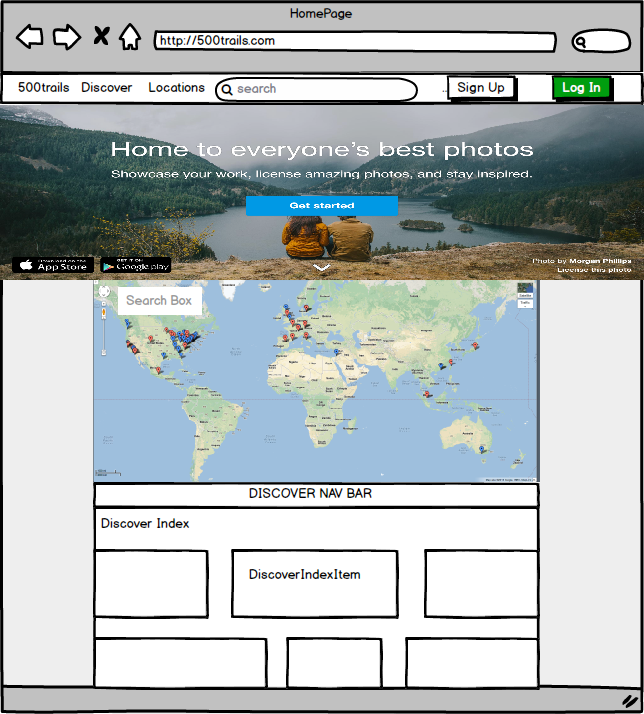
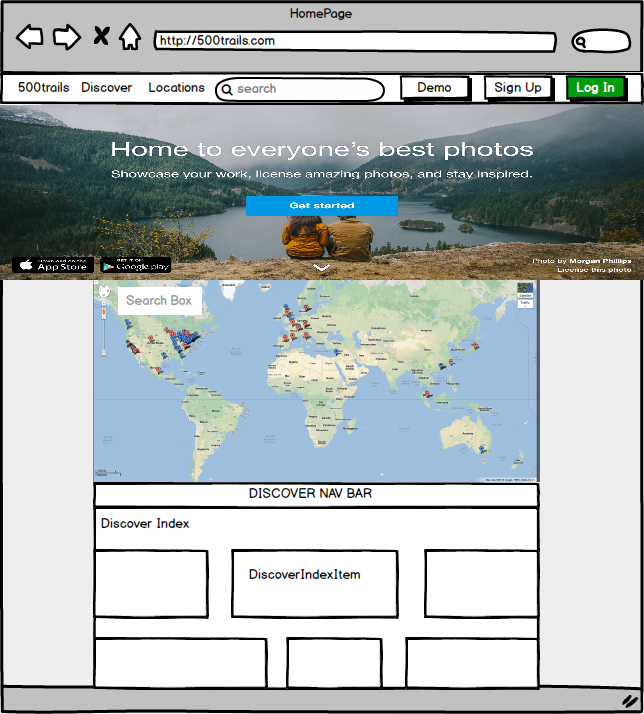
component-hierarchy.md

Changed region(s): [[0.559, 0.0924, 0.9938, 0.1541]]

diff --git a/docs/component-hierarchy.md b/docs/component-hierarchy.md
@@ -1,0 +1,55 @@
+## Component Hierarchy
+
+**Auth Form Container**
+  - Header Container
+  - AuthForm
+
+**Home Container**
+  - Header Container
+  - Discover Container
+    - Discover Nav Bar
+    - Discover Google Maps
+    - Discover Index
+
+**Header Container**
+  - Search
+  - Log In Button
+  - Sign Up Button
+  - Demo Button
+
+**Logged In Header Container**
+  - Search
+  - User Name
+  - New Trip Button
+
+**User Profile Container**
+  - Logged In Header Container
+  - Profile Stats Container
+  - Profile Nav Bar
+  - Trips Index
+
+**Profile Stats Container**
+ - User Name
+ - Avatar Photo
+
+**Saved Trips Container**
+  - Logged In Header Container
+  - Profile Stats Container
+  - Profile Nav Bar
+  - Saved Trips Index
+
+**User Map Container**
+  - Logged In Header Container
+  - Profile Stats Container
+  - Profile Nav Bar
+  - User Profile Google Maps
+
+**New Trip Form Container**
+  - Photo Upload Container
+    -Photo Upload Button
+    -Drag and Drop Photo Area(bonus)
+  - New Trip Form
+    - Publish Trip Button
+    - Title Text Box
+    - Location Text Box
+    - Description Text Area

diff --git a/README.md b/README.md
@@ -17,7 +17,7 @@ sufficient CSS styling:
 - [ ] Hosting on Heroku
 - [ ] New account creation, login, and guest/demo login
 - [ ] Home Feed
-- [ ] Photo Upload for new trips
+- [ ] Photo upload for new trips
 - [ ] User Profile Page containing trips
 - [ ] Save other users' trips (follows)
 - [ ] Google Map containing locations of user's trips
@@ -45,7 +45,7 @@ sufficient CSS styling:
 
 
 ### Bonus Features (TBD)
-- [ ] Google Maps on homepage
-- [ ] Google Maps for User
-- [ ] Discover
-- [ ] Multiple sessions
+- [ ] Search Trip By Location
+- [ ] Multiple Photo Upload for trips
+- [ ] Drag and Drop Photo Upload
+- [ ]
